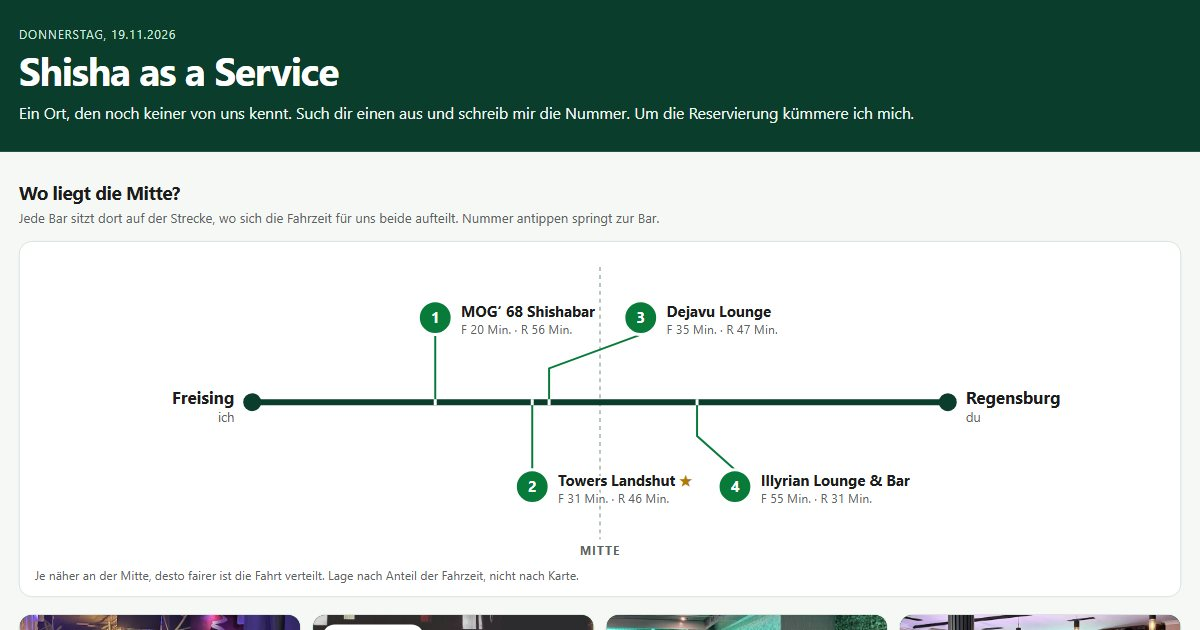
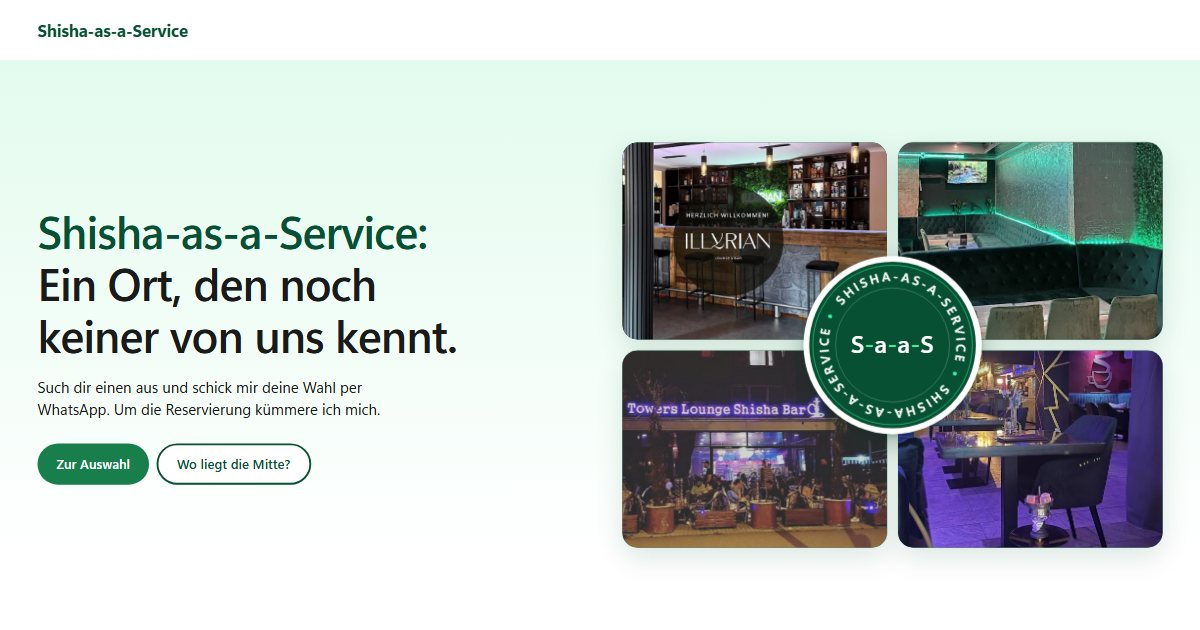
Texte überarbeitet: freigegebene Stellen, neuer Shisha-Screenshot, breitere Textspalte

diff --git a/projekte/shisha-as-a-service/index.html b/projekte/shisha-as-a-service/index.html
@@ -18,7 +18,7 @@
 <meta property="og:image" content="https://tschortsch3711.github.io/portfolio/assets/bilder/og/shisha-as-a-service.jpg">
 <meta property="og:image:width" content="1200">
 <meta property="og:image:height" content="630">
-<meta property="og:image:alt" content="Startseite von Shisha as a Service mit der Strecke zwischen Freising und Regensburg und vier nummerierten Bars">
+<meta property="og:image:alt" content="Einstieg von Shisha as a Service mit der Überschrift „Ein Ort, den noch keiner von uns kennt.“, vier Fotos von Bars und einem runden Siegel">
 <meta name="twitter:card" content="summary_large_image">
 <link rel="icon" href="../../favicon.svg" type="image/svg+xml">
 <link rel="preload" href="../../fonts/Sen/Sen-Bold.woff2" as="font" type="font/woff2" crossorigin>
@@ -44,7 +44,7 @@
       <p class="held-unter">Eine kleine Seite für ein Treffen am 19.11.2026. Wer sie bekommt, sucht sich eine Bar aus und schickt die Nummer zurück.</p>
       <figure>
         <div class="bild">
-          <img src="../../assets/bilder/shisha-as-a-service-1600.webp" srcset="../../assets/bilder/shisha-as-a-service-800.webp 800w, ../../assets/bilder/shisha-as-a-service-1600.webp 1600w" sizes="(max-width: 64rem) 100vw, 60rem" width="1600" height="1000" alt="Startseite von Shisha as a Service mit der Strecke zwischen Freising und Regensburg und vier nummerierten Bars" fetchpriority="high">
+          <img src="../../assets/bilder/shisha-as-a-service-1600.webp" srcset="../../assets/bilder/shisha-as-a-service-800.webp 800w, ../../assets/bilder/shisha-as-a-service-1600.webp 1600w" sizes="(max-width: 64rem) 100vw, 60rem" width="1600" height="1000" alt="Einstieg von Shisha as a Service mit der Überschrift „Ein Ort, den noch keiner von uns kennt.“, vier Fotos von Bars und einem runden Siegel" fetchpriority="high">
         </div>
         <figcaption class="bild-unter etikett">Screenshot der Live-Seite, 18.11.2026</figcaption>
       </figure>
@@ -60,11 +60,11 @@
     <section class="text" aria-label="Mehr über Shisha as a Service">
       <div class="text-block">
         <h2>Die Strecke</h2>
-        <div><p>Oben liegt die Strecke Freising bis Regensburg. Jede Bar sitzt dort, wo sich die Fahrzeit für beide aufteilt. Je näher an der Mitte, desto fairer.</p></div>
+        <div><p>Jede Bar sitzt auf der Strecke dort, wo sich die Fahrzeit für beide aufteilt. Je näher an der Mitte, desto fairer ist die Fahrt verteilt.</p></div>
       </div>
       <div class="text-block">
         <h2>Die Auswahl</h2>
-        <div><p>Towers in Landshut, Dejavu in der Landshuter Altstadt, Illyrian in Abensberg-Aumühle und MOG‘ 68 in Moosburg an der Isar. Darunter Karten mit Öffnungszeiten und Stimmen aus den Bewertungen.</p></div>
+        <div><p>Je nach Startort vier von sechs Bars zwischen Abensberg, Landshut, Moosburg, Erding und Neufahrn. Jede Karte zeigt Sterne, Fahrzeiten und Stimmen aus den Bewertungen, auch die kritischen.</p></div>
       </div>
       <div class="text-block">
         <h2>Wie es entstand</h2>

diff --git a/projekte/release-pipeline/index.html b/projekte/release-pipeline/index.html
@@ -52,7 +52,7 @@
 
     <dl class="band" aria-label="Fakten">
       <div><dt class="etikett">Was</dt><dd>Release-Pipeline für die Songs von tschortsch</dd></div>
-      <div><dt class="etikett">Für wen</dt><dd>Für den eigenen Gebrauch, oft per Sprache vom iPhone aus</dd></div>
+      <div><dt class="etikett">Für wen</dt><dd>Für den eigenen Gebrauch</dd></div>
       <div><dt class="etikett">Womit gebaut</dt><dd>Claude Code, Claude in Chrome, Python und JavaScript</dd></div>
       <div><dt class="etikett">Stand</dt><dd>In Gebrauch seit September 2026, Repo privat</dd></div>
     </dl>
@@ -60,15 +60,11 @@
     <section class="text" aria-label="Mehr über Release-Pipeline">
       <div class="text-block">
         <h2>Jeder Schritt ein Skill</h2>
-        <div><p>Neuer Song, Generieren, Import, Download, Cover, Cover bereinigen, Analyse, Release und Lyrics nachreichen sind eigene Skills. Zu jedem Song gibt es eine song.json, die den Stand vom Entwurf bis zur Veröffentlichung festhält.</p></div>
+        <div><p>Neuer Song, Generieren, Import, Download, Cover, Cover bereinigen, Analyse, Release und Lyrics nachreichen. Eine Statusdatei pro Song hält fest, wie weit er vom Entwurf bis zur Veröffentlichung ist.</p></div>
       </div>
       <div class="text-block">
         <h2>Freigabe statt Autopilot</h2>
-        <div><p>Bei Suno wird erst nach einem ausdrücklichen „Los“ generiert und nur auf Anweisung heruntergeladen. Bei Amuse geht nichts raus, bevor eine vollständige Zusammenfassung gezeigt wurde und ein „Go“ kam. Captchas löst der Mensch selbst.</p></div>
-      </div>
-      <div class="text-block">
-        <h2>Skript vor Klick</h2>
-        <div><p>Im Browser arbeitet Claude möglichst per Skript über Beschriftungen und Formularfelder statt über Klicks auf Koordinaten. Jeder neu gefundene Weg wandert als Helfer in die Skripte und in den passenden Skill.</p></div>
+        <div><p>Generiert, heruntergeladen und veröffentlicht wird erst nach ausdrücklicher Freigabe. Vor jedem Release steht eine vollständige Zusammenfassung zum Gegenlesen.</p></div>
       </div>
       <div class="text-block">
         <h2>Nach dem Release</h2>

diff --git a/index.html b/index.html
@@ -4,7 +4,7 @@
 <meta charset="utf-8">
 <meta name="viewport" content="width=device-width, initial-scale=1">
 <title>Nikola Djordjevic · Projekte</title>
-<meta name="description" content="Öffentliche Projekte von Nikola Djordjevic aus Freising: 3D-Druck, Lagerhallen, Backblog, ein KI-Glossar und andere Open-Source-Seiten, drei Werkzeuge rund um den Betriebsrat und Musik.">
+<meta name="description" content="Ideen, die nicht in der Schublade bleiben. Projekte von Nikola Djordjevic: Seiten für Betriebe, Open Source, Musik und Werkzeuge fürs Ehrenamt.">
 <meta name="author" content="Nikola Djordjevic">
 <meta name="theme-color" content="#ffffff">
 <meta name="color-scheme" content="light">
@@ -13,7 +13,7 @@
 <meta property="og:locale" content="de_DE">
 <meta property="og:site_name" content="Nikola Djordjevic">
 <meta property="og:title" content="Nikola Djordjevic · Projekte">
-<meta property="og:description" content="Öffentliche Projekte von Nikola Djordjevic aus Freising: 3D-Druck, Lagerhallen, Backblog, ein KI-Glossar und andere Open-Source-Seiten, drei Werkzeuge rund um den Betriebsrat und Musik.">
+<meta property="og:description" content="Ideen, die nicht in der Schublade bleiben. Projekte von Nikola Djordjevic: Seiten für Betriebe, Open Source, Musik und Werkzeuge fürs Ehrenamt.">
 <meta property="og:url" content="https://tschortsch3711.github.io/portfolio/">
 <meta property="og:image" content="https://tschortsch3711.github.io/portfolio/assets/bilder/og/start.png">
 <meta property="og:image:width" content="1200">
@@ -138,7 +138,7 @@
         <span class="kachel-nr" aria-hidden="true">09</span>
         <span class="kachel-name">BR or not 2 BR?</span>
         <span class="kachel-gruppe etikett">Ehrenamt</span>
-        <span class="kachel-satz">Eine Entscheidungshilfe mit Augenzwinkern, ob man zur Betriebsratswahl geht.</span>
+        <span class="kachel-satz">Zur Betriebsratswahl gehen oder nicht? Zwölf Fragen, eine Minute.</span>
       </span>
     </a>
   </li>

diff --git a/projekte/von-ka-zu-ki/index.html b/projekte/von-ka-zu-ki/index.html
@@ -64,11 +64,11 @@
       </div>
       <div class="text-block">
         <h2>Wo man einsteigt</h2>
-        <div><p>Man kann das Glossar per Volltextsuche durchsuchen, die Perspektive wechseln oder einem Lernpfad für Management, IT oder Einsteiger folgen. Dazu gibt es kleine Wissenstests.</p></div>
+        <div><p>Über die Volltextsuche, über die eigene Perspektive oder über einen Lernpfad für Management, IT oder Einsteiger. Kleine Wissenstests zeigen, was hängen geblieben ist.</p></div>
       </div>
       <div class="text-block">
         <h2>Ohne Server</h2>
-        <div><p>Die Seite ist komplett statisch. Die Suche läuft im Browser über eine JSON-Datei, es gibt keine Server-Komponente und keine externen KI-Dienste.</p></div>
+        <div><p>Die Seite ist komplett statisch. Die Suche läuft im Browser, ohne Server und ohne externe KI-Dienste.</p></div>
       </div>
     </section>
 

diff --git a/projekte/br-simulator/index.html b/projekte/br-simulator/index.html
@@ -67,8 +67,8 @@
         <div><p>Jede Entscheidung verschiebt Werte wie das Vertrauen von Belegschaft und Arbeitgeber, den Zusammenhalt im Gremium, das Rechtsrisiko, Stress und Arbeitslast. Versäumte Fristen haben Folgen, hoher Stress schränkt die Optionen ein.</p></div>
       </div>
       <div class="text-block">
-        <h2>Erweiterbar</h2>
-        <div><p>Die Geschichten liegen als JSON-Dateien vor: 10 Ereignisse, 8 Fälle, 6 Verhandlungen, 3 Übergaben an den Gesamtbetriebsrat, 2 Einigungsstellen und 3 Wissensbausteine. Alle Figuren sind erfunden, und die Simulation ist keine Rechtsberatung.</p></div>
+        <h2>Was drinsteckt</h2>
+        <div><p>10 Ereignisse, 8 Fälle, 6 Verhandlungen, 3 Übergaben an den Gesamtbetriebsrat, 2 Einigungsstellen und 3 Wissensbausteine. Alle Figuren sind erfunden, die Simulation ist keine Rechtsberatung.</p></div>
       </div>
     </section>
 

diff --git a/projekte/br-selbstcheck/index.html b/projekte/br-selbstcheck/index.html
@@ -63,10 +63,6 @@
         <div><p>Der Check gibt keine Empfehlung und bewertet nicht die Persönlichkeit. Er soll zum Nachdenken anregen und eine Grundlage für Gespräche mit erfahrenen Betriebsratsmitgliedern liefern.</p></div>
       </div>
       <div class="text-block">
-        <h2>So funktioniert er</h2>
-        <div><p>Jede Aussage wird auf einer Skala von „trifft zu“ bis „trifft nicht zu“ beantwortet. Daraus entstehen Werte von 0 bis 100 für Motivation, Zeit, Kommunikation, Konflikt, Rückhalt und Selbstmanagement.</p></div>
-      </div>
-      <div class="text-block">
         <h2>Bleibt im Browser</h2>
         <div><p>Antworten und Fortschritt werden nur im eigenen Browser gespeichert. An einen Server geht nichts.</p></div>
       </div>

diff --git a/projekte/br-or-not-2-br/index.html b/projekte/br-or-not-2-br/index.html
@@ -59,8 +59,8 @@
 
     <section class="text" aria-label="Mehr über BR or not 2 BR?">
       <div class="text-block">
-        <h2>Locker im Ton</h2>
-        <div><p>Die Seite erinnert zum Beispiel daran, dass Wählen meist kürzer dauert als die Kaffeeschlange. Die Fragen decken trotzdem Motivation, Hürden, Vertrauen, Werte und Information ab.</p></div>
+        <h2>Kürzer als die Kaffeeschlange</h2>
+        <div><p>So lange dauert Wählen meistens, erinnert die Seite. Die zwölf Fragen gehen trotzdem in die Tiefe: Motivation, Hürden, Vertrauen, Werte und Information.</p></div>
       </div>
       <div class="text-block">
         <h2>Ohne Listen und Namen</h2>

diff --git a/projekte/3dmensional/index.html b/projekte/3dmensional/index.html
@@ -64,7 +64,7 @@
       </div>
       <div class="text-block">
         <h2>Welches Material</h2>
-        <div><p>Die Seite erklärt PLA für drinnen, PETG für Belastung, ASA für draußen und TPU für biegsame Teile, jeweils mit ihren Grenzen.</p></div>
+        <div><p>PLA für drinnen, PETG für Belastung, ASA für draußen, TPU für Biegsames.<br>Die Seite sagt zu jedem Material auch, wo es an seine Grenzen kommt.</p></div>
       </div>
       <div class="text-block">
         <h2>In Zahlen</h2>

diff --git a/projekte/lagerhimmel/index.html b/projekte/lagerhimmel/index.html
@@ -68,7 +68,7 @@
       </div>
       <div class="text-block">
         <h2>Vier Schritte</h2>
-        <div><p>Anfragen, besichtigen, Vertrag, einlagern. Kontakt per Telefon, WhatsApp oder E-Mail. Die Karte ist nicht eingebettet, ein Link öffnet Google Maps.</p></div>
+        <div><p>Anfragen, besichtigen, Vertrag, einlagern. Kontakt per Telefon, WhatsApp oder E-Mail.</p></div>
       </div>
     </section>
 

diff --git a/projekte/fleischbibel/index.html b/projekte/fleischbibel/index.html
@@ -68,7 +68,7 @@
       </div>
       <div class="text-block">
         <h2>Wie sie gepflegt wird</h2>
-        <div><p>Alle Seiten sind Markdown-Dateien. Nach einem Push auf main baut GitHub Actions die Seite und veröffentlicht sie.</p></div>
+        <div><p>Alle Seiten sind einfache Markdown-Dateien. Jede Änderung geht automatisch online.</p></div>
       </div>
     </section>
 

diff --git a/assets/css/tokens.css b/assets/css/tokens.css
@@ -61,7 +61,7 @@
   /* Raster */
   --breite: 60rem;
   --rand: 2rem;
-  --lesebreite: 38rem;
+  --lesebreite: 42rem;
 }
 
 @media (max-width: 40rem) {

diff --git a/DESIGN.md b/DESIGN.md
@@ -15,7 +15,7 @@ Alle Werte stehen als CSS-Variablen in [`assets/css/tokens.css`](assets/css/toke
 | Abstände | `--s-1` bis `--s-9` | 4, 8, 12, 16, 24, 32, 48, 72, 104 px |
 | Radien | `--r-0`, `--r-1` | 0 und 2 px. Fast alles ist eckig |
 | Linien | `--l-duenn`, `--l-fett` | 1 px für Trennlinien, 2 px für Abschnittsgrenzen |
-| Raster | `--breite`, `--rand`, `--lesebreite` | 960 px Inhalt, Rand 32 px (16 px unter 640 px), 38rem Lesebreite |
+| Raster | `--breite`, `--rand`, `--lesebreite` | 960 px Inhalt, Rand 32 px (16 px unter 640 px), 42rem Lesebreite |
 
 ## Komponenten
 
